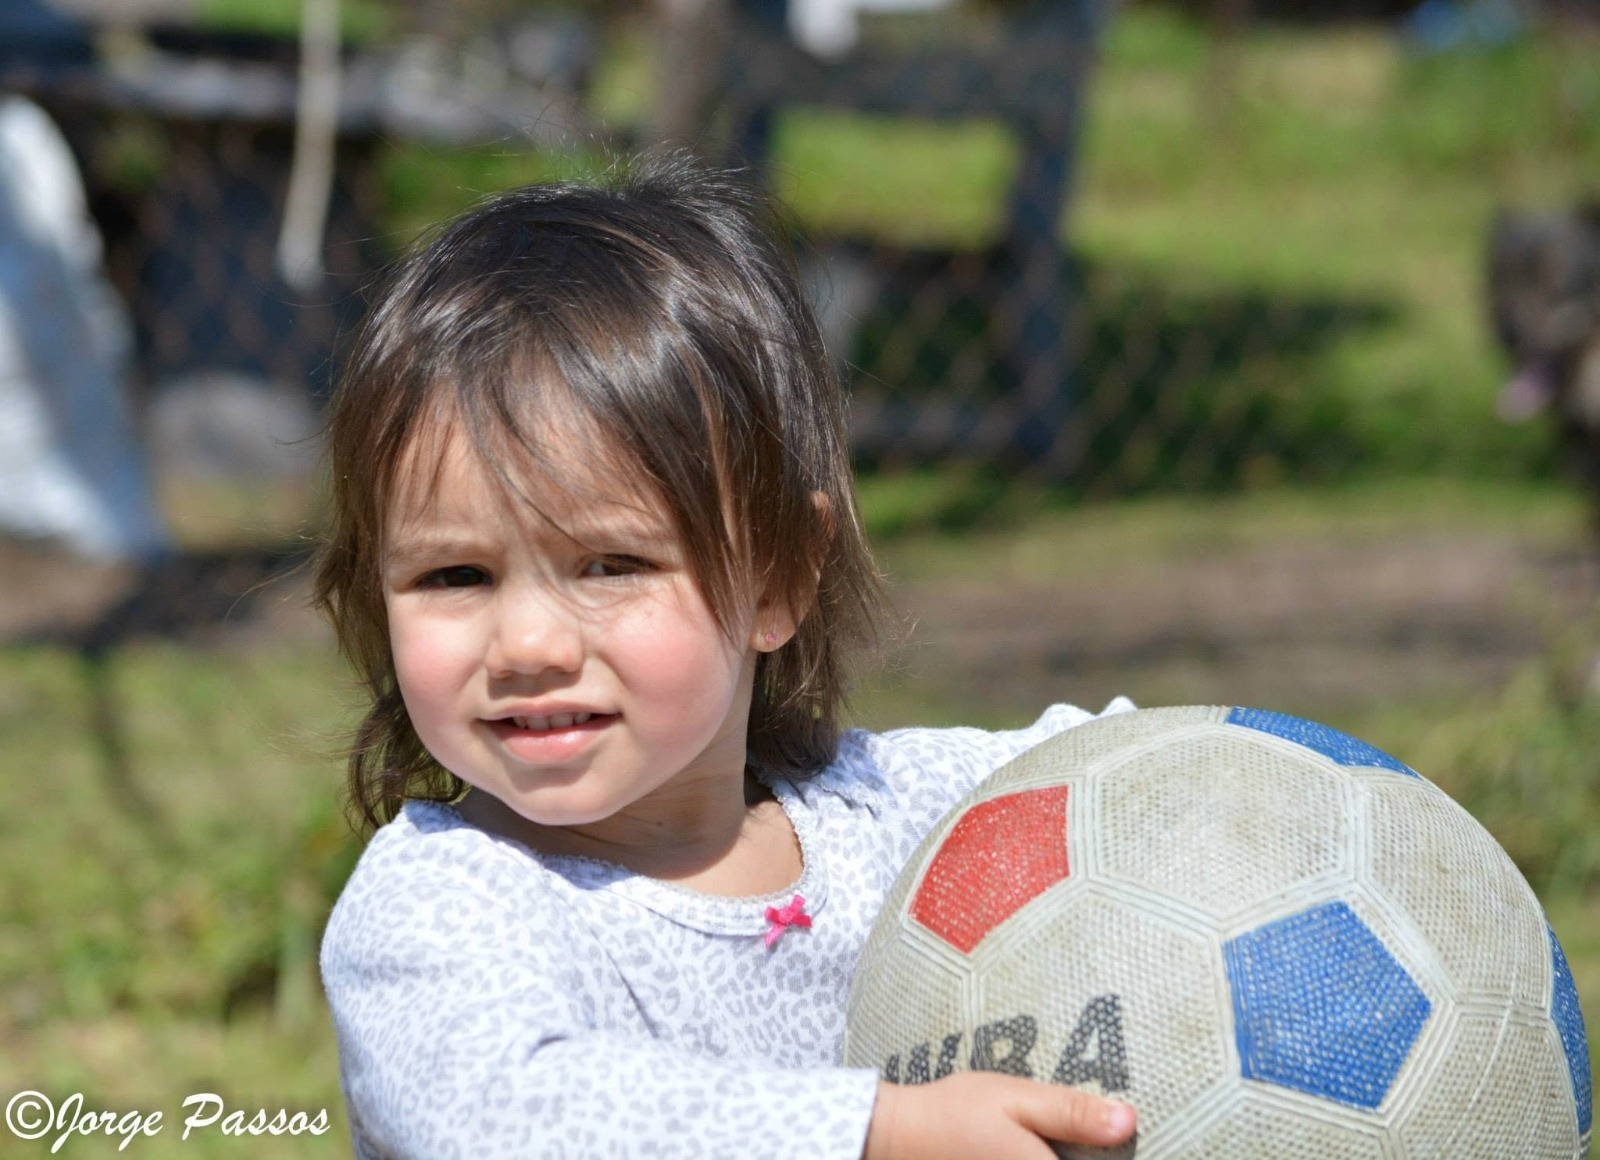
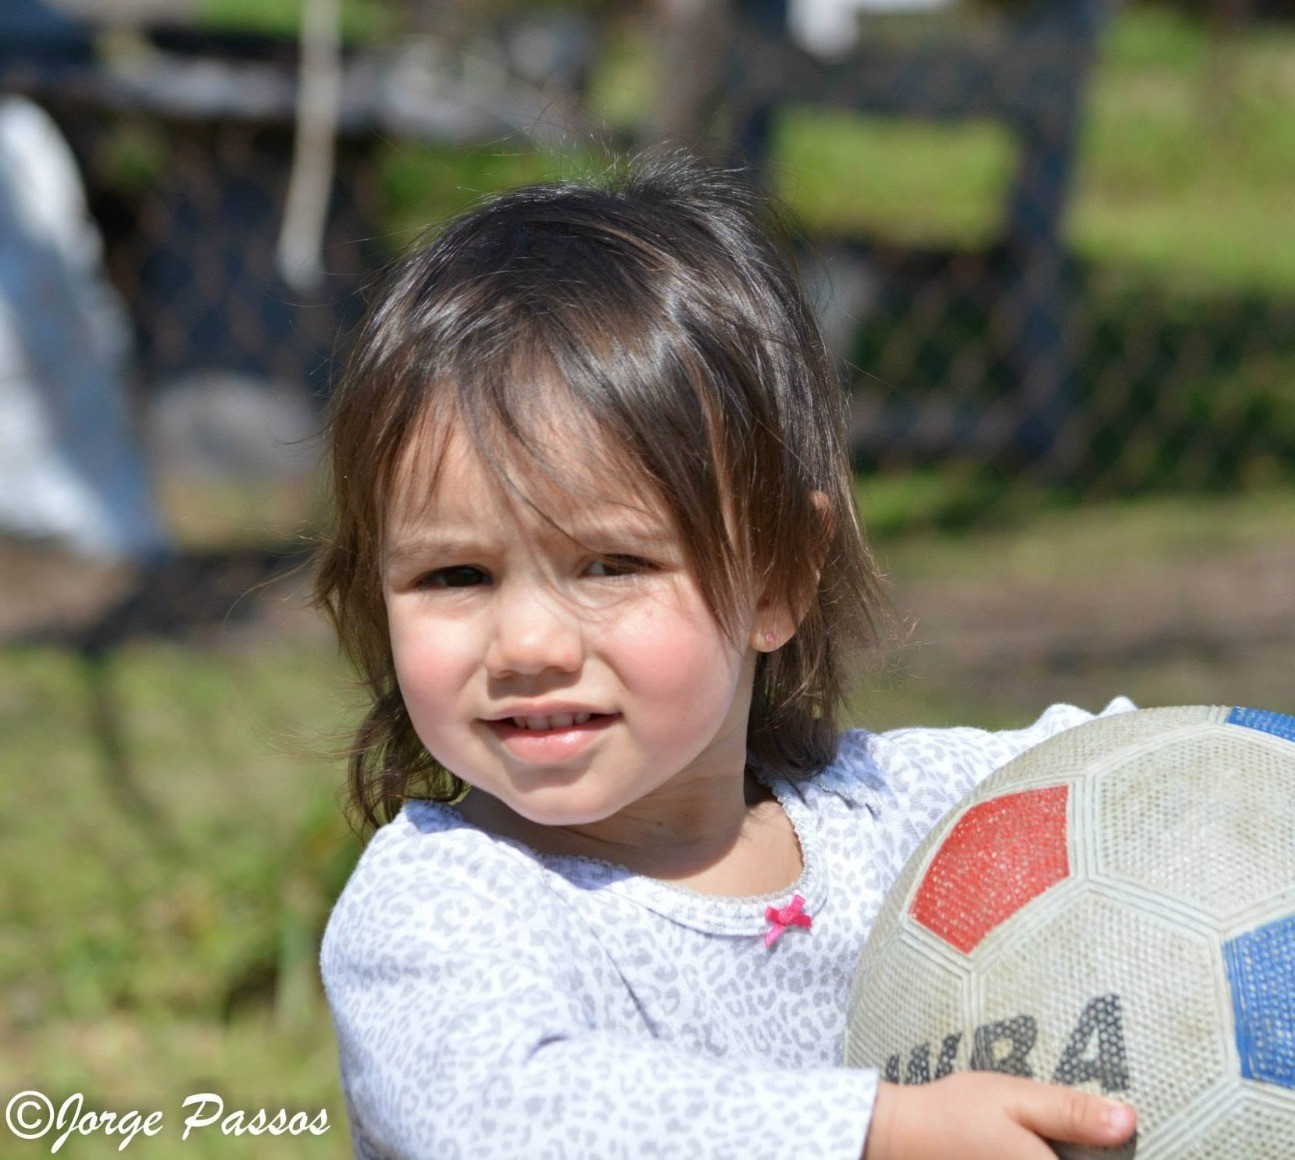
Saco btn de datos bancarios y colores reservados + ajusto foto bebé + separador ✦

diff --git a/index.html b/index.html
@@ -262,18 +262,11 @@
                 </div>
 
                 <h3 class="dresscode-title">Vestimenta formal.</h3>
-                <p class="dresscode-reserved-note">Se reservan para la quinceañera y la familia los colores: blanco,
-                    celestes y azules.</p>
+                <p class="dresscode-reserved-note">Se reserva para la quinceañera el color: </p>
 
                 <div class="colors-reserved-pills">
                     <div class="color-pill">
                         <span class="color-dot white"></span> Blanco
-                    </div>
-                    <div class="color-pill">
-                        <span class="color-dot light-blue"></span> Celestes
-                    </div>
-                    <div class="color-pill">
-                        <span class="color-dot blue"></span> Azules
                     </div>
                 </div>
             </section>
@@ -302,6 +295,12 @@
                 </a>
             </section>
 
+            <div class="decorative-divider">
+                <div class="divider-line"></div>
+                <div class="divider-sparkle">✦</div>
+                <div class="divider-line"></div>
+            </div>
+
             <section class="gift-section reveal">
                 <div class="section-icon-circle">
                     <!-- //cambiar imagen regalo aquí -->
@@ -314,10 +313,34 @@
                     sueños y anhelos✨ ¡Muchas gracias!
                 </p>
 
-                <button type="button" class="btn-cta btn-luxury" id="open-gift-modal-btn">
-                    <img src="assets/img/datos-bancarios.png" alt="Datos bancarios">
-                    Datos bancarios
-                </button>
+                <!-- //cambiar datos de tarjeta Prex aquí -->
+                <div class="gift-card-box">
+                    <h4 class="bank-data-title">Datos Bancarios</h4>
+                    <p class="modal-subtitle">Podés realizar una transferencia a la siguiente cuenta Prex ($ y USD):</p>
+
+                    <div class="prex-card-display">
+                        <!-- //cambiar datos de tarjeta Prex aquí -->
+                        <div class="prex-logo-badge">PREX URUGUAY</div>
+
+                        <div class="prex-data-row">
+                            <div class="prex-data-label">Número Cuenta</div>
+                            <div class="prex-data-value" id="prex-number-val">2423 7877</div>
+                        </div>
+
+                        <div class="prex-data-row">
+                            <div class="prex-data-label">Titular</div>
+                            <div class="prex-data-name" id="prex-holder-val">Sofía Waller</div>
+                        </div>
+                    </div>
+
+                    <button type="button" class="btn-cta btn-luxury" id="copy-prex-btn" style="width: 100%;">
+                        <svg viewBox="0 0 24 24" fill="none" stroke="currentColor" stroke-width="2">
+                            <rect x="9" y="9" width="13" height="13" rx="2" ry="2"></rect>
+                            <path d="M5 15H4a2 2 0 0 1-2-2V4a2 2 0 0 1 2-2h9a2 2 0 0 1 2 2v1"></path>
+                        </svg>
+                        Copiar Número
+                    </button>
+                </div>
             </section>
 
             <div class="decorative-divider">
@@ -410,46 +433,6 @@
 
         </div>
     </main>
-
-    <!-- //cambiar datos de tarjeta Prex aquí -->
-    <div class="gift-modal-backdrop" id="gift-modal" role="dialog" aria-modal="true">
-        <div class="gift-modal-card">
-            <button type="button" class="modal-close-btn" id="close-gift-modal-btn" title="Cerrar">&times;</button>
-
-            <div class="modal-header-icon">
-                <svg width="28" height="28" viewBox="0 0 24 24" fill="none" stroke="#fa8072" stroke-width="2">
-                    <rect x="2" y="5" width="20" height="14" rx="2"></rect>
-                    <line x1="2" y1="10" x2="22" y2="10"></line>
-                </svg>
-            </div>
-
-            <h3 class="modal-title">Datos para el Regalo</h3>
-            <p class="modal-subtitle">Podés realizar una transferencia a la siguiente cuenta Prex ($ y USD):</p>
-
-            <div class="prex-card-display">
-                <!-- //cambiar datos de tarjeta Prex aquí -->
-                <div class="prex-logo-badge">PREX URUGUAY</div>
-
-                <div class="prex-data-row">
-                    <div class="prex-data-label">Número Cuenta</div>
-                    <div class="prex-data-value" id="prex-number-val">2423 7877</div>
-                </div>
-
-                <div class="prex-data-row">
-                    <div class="prex-data-label">Titular</div>
-                    <div class="prex-data-name" id="prex-holder-val">Sofía Waller</div>
-                </div>
-            </div>
-
-            <button type="button" class="btn-cta btn-luxury" id="copy-prex-btn" style="width: 100%;">
-                <svg viewBox="0 0 24 24" fill="none" stroke="currentColor" stroke-width="2">
-                    <rect x="9" y="9" width="13" height="13" rx="2" ry="2"></rect>
-                    <path d="M5 15H4a2 2 0 0 1-2-2V4a2 2 0 0 1 2-2h9a2 2 0 0 1 2 2v1"></path>
-                </svg>
-                Copiar Número
-            </button>
-        </div>
-    </div>
 
     <div class="copy-toast" id="copy-toast">¡Copiado con éxito!</div>
 

diff --git a/assets/css/style.css b/assets/css/style.css
@@ -1117,10 +1117,6 @@ body {
   object-fit: contain;
 }
 
-#open-gift-modal-btn img {
-  width: 26px;
-  height: 26px;
-}
 
 .btn-cta-secondary {
   background: #ffffff;
@@ -1245,88 +1241,26 @@ body {
 }
 
 /* ==========================================================================
-   16. MODAL INTERACTIVO DE DATOS PREX (REGALO)
+   16. TARJETA DE DATOS BANCARIOS (REGALO / PREX)
    ========================================================================== */
-.gift-modal-backdrop {
-  position: fixed;
-  top: 0;
-  left: 0;
-  width: 100vw;
-  height: 100vh;
-  background: rgba(43, 33, 29, 0.65);
-  backdrop-filter: blur(6px);
-  z-index: 10000;
-  display: flex;
-  align-items: center;
-  justify-content: center;
-  padding: 20px;
-  opacity: 0;
-  visibility: hidden;
-  transition: opacity 0.35s ease, visibility 0.35s ease;
-}
-
-.gift-modal-backdrop.active {
-  opacity: 1;
-  visibility: visible;
-}
-
-.gift-modal-card {
-  background: #ffffff;
-  width: 100%;
+.gift-card-box {
+  background: linear-gradient(145deg, #ffffff 0%, #fffbf9 100%);
   max-width: 440px;
+  margin: 24px auto 0 auto;
   border-radius: 24px;
   padding: 30px 24px;
-  box-shadow: 0 25px 60px rgba(0, 0, 0, 0.25);
-  position: relative;
+  box-shadow: 0 14px 40px rgba(250, 128, 114, 0.12), 0 4px 15px rgba(0, 0, 0, 0.03);
   border: 1px solid var(--border-delicate);
-  transform: scale(0.9) translateY(20px);
-  transition: transform 0.35s cubic-bezier(0.34, 1.56, 0.64, 1);
+  text-align: center;
 }
 
-.gift-modal-backdrop.active .gift-modal-card {
-  transform: scale(1) translateY(0);
-}
-
-.modal-close-btn {
-  position: absolute;
-  top: 18px;
-  right: 18px;
-  width: 36px;
-  height: 36px;
-  border-radius: 50%;
-  background: rgba(250, 128, 114, 0.1);
-  border: none;
-  font-size: 1.2rem;
-  color: var(--primary);
-  display: flex;
-  align-items: center;
-  justify-content: center;
-  cursor: pointer;
-  transition: all 0.2s ease;
-}
-
-.modal-close-btn:hover {
-  background: var(--primary);
-  color: #ffffff;
-}
-
-.modal-header-icon {
-  width: 60px;
-  height: 60px;
-  border-radius: 50%;
-  background: rgba(255, 187, 168, 0.3);
-  display: flex;
-  align-items: center;
-  justify-content: center;
-  margin: 0 auto 15px auto;
-}
-
-.modal-title {
+.bank-data-title {
   font-family: var(--font-serif);
   font-size: 1.6rem;
   color: var(--primary);
   text-align: center;
   margin-bottom: 6px;
+  font-weight: 700;
 }
 
 .modal-subtitle {
@@ -1346,6 +1280,7 @@ body {
   box-shadow: 0 10px 25px rgba(27, 32, 56, 0.25);
   position: relative;
   overflow: hidden;
+  text-align: left;
 }
 
 .prex-card-display::before {

diff --git a/assets/js/main.js b/assets/js/main.js
@@ -154,37 +154,11 @@ document.addEventListener('DOMContentLoaded', () => {
   };
   
   /* ========================================================================
-     4. MODAL DATOS DE REGALO (PREX) Y COPIAR AL PORTAPAPELES
+     4. COPIAR DATOS DE REGALO (PREX) AL PORTAPAPELES
      ======================================================================== */
-  const openModalBtn = document.getElementById('open-gift-modal-btn');
-  const closeModalBtn = document.getElementById('close-gift-modal-btn');
-  const giftModal = document.getElementById('gift-modal');
   const copyPrexBtn = document.getElementById('copy-prex-btn');
   const prexNumberVal = document.getElementById('prex-number-val');
   const copyToast = document.getElementById('copy-toast');
-  
-  if(openModalBtn && giftModal) {
-    openModalBtn.addEventListener('click', () => {
-      giftModal.classList.add('active');
-      document.body.style.overflow = 'hidden'; // Evitar scroll de fondo
-    });
-  }
-  
-  const closeGiftModal = () => {
-    giftModal.classList.remove('active');
-    document.body.style.overflow = 'auto';
-  };
-  
-  if(closeModalBtn) closeModalBtn.addEventListener('click', closeGiftModal);
-  
-  // Cerrar al clickear fuera de la tarjeta
-  if(giftModal) {
-    giftModal.addEventListener('click', (e) => {
-      if(e.target === giftModal) {
-        closeGiftModal();
-      }
-    });
-  }
   
   // Copiar datos
   if(copyPrexBtn && prexNumberVal) {
